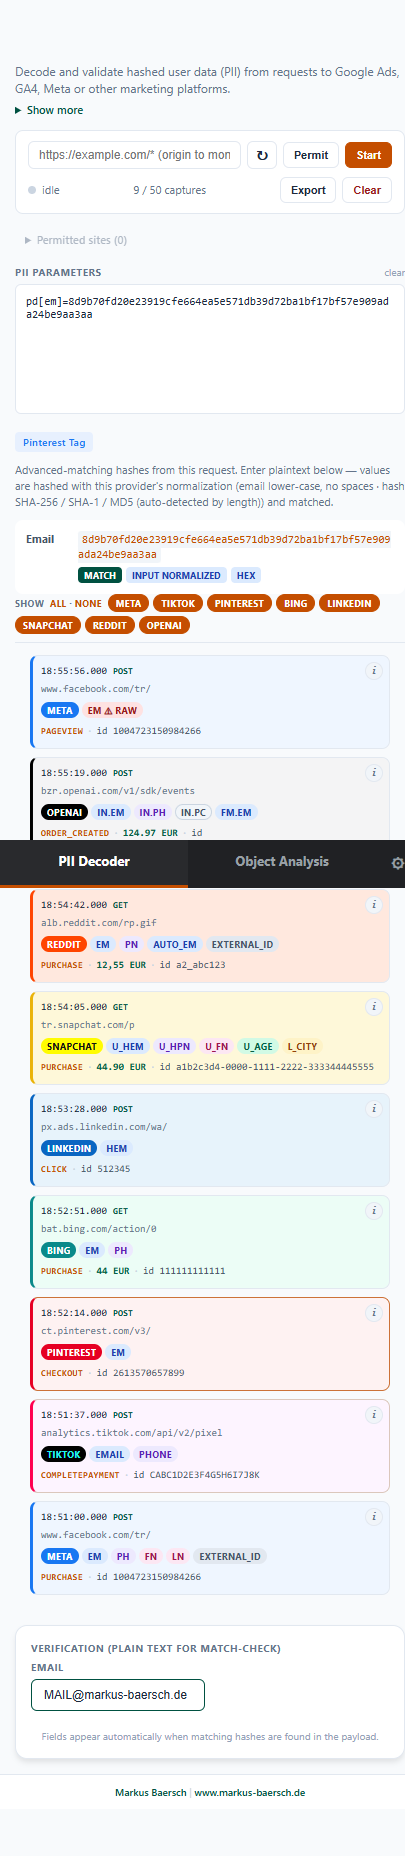
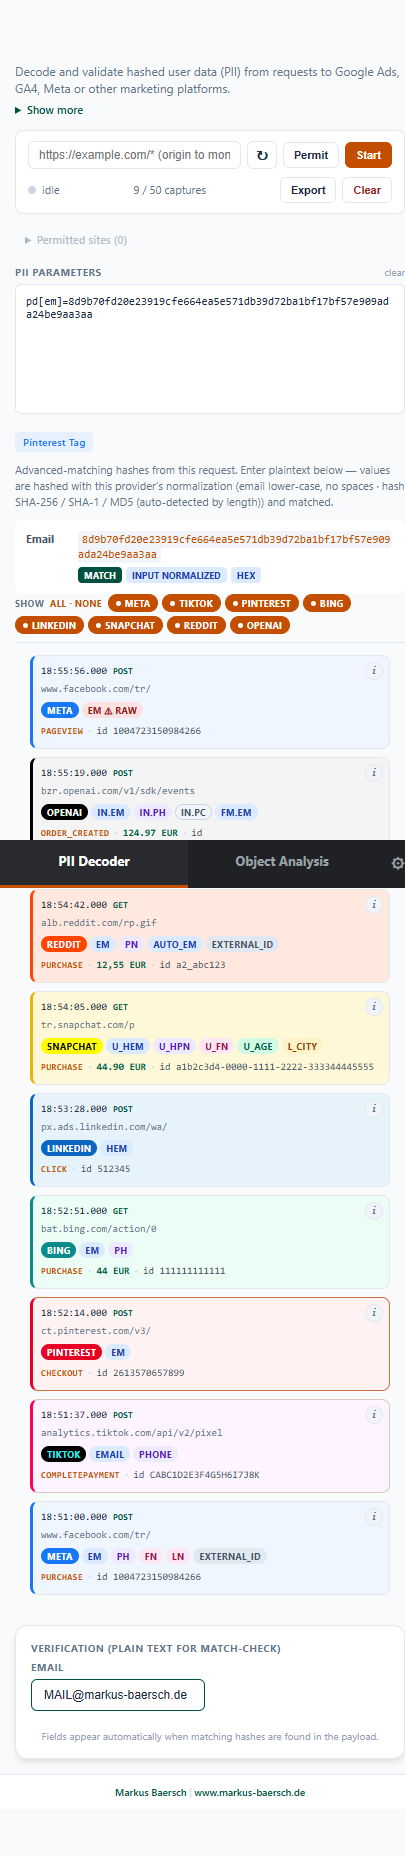
feat(panel): activity dot on the service filter chips
Ported from the sibling tracking-auditor extension. A chip whose service
produced captures carries a dot, deliberately independent of the show
filter: a chip switched OFF hides its cards, which is exactly the case
where nothing else tells you the service is still firing.

Two deviations from the original, both about this panel's workflow:
- The pulse is bound to a `rec-live` class on the bar rather than to each
  chip, because the filter bar is not re-rendered on recording start/stop.
- It pulses only while recording; stopped, the dot stays as a static
  marker instead of animating through the whole analysis phase.

prefers-reduced-motion drops the animation and keeps the dot.

Changed region(s): [[0.1778, 0.3125, 0.9481, 0.3438], [0.0593, 0.3125, 0.1481, 0.3438]]

diff --git a/tests/validator.spec.js b/tests/validator.spec.js
@@ -2,6 +2,7 @@ const { test, expect, chromium } = require('@playwright/test');
 const path = require('path');
 const fs = require('fs');
 const fixtures = require('./fixtures.js');
+const detectorFixtures = require('./detector-fixtures.js');
 
 const EXTENSION_PATH = path.resolve(__dirname, '..');
 const USER_DATA_DIR = path.resolve(__dirname, '..', 'tmp-user-data-test');
@@ -278,5 +279,101 @@ test('18. OpenAI: cleartext geo is marked as by-design, never as a leak', async 
   const row = page.locator('#emResult .res-table tr').filter({ hasText: 'Postal code (init)' });
   await expect(row).toContainText('CLEARTEXT BY DESIGN');
   await expect(row.locator('.no-match')).toHaveCount(0);
+  await page.close();
+});
+
+// --- Activity dot on the filter chips -----------------------------------
+// A chip that is switched OFF hides its cards — which is exactly when you can
+// no longer tell that the service is firing. The dot is the answer, so it must
+// survive the toggle.
+
+// Seed captures straight into the service worker's state, the same way the
+// screenshot harness does. Detector flags are NOT set here: the panel's first
+// load reconciles them against the real (absent) permissions and would write
+// them straight back to false — they have to be set after the stub is in place.
+async function seedCaptures(recording) {
+  let sw = context.serviceWorkers()[0];
+  if (!sw) sw = await context.waitForEvent('serviceworker');
+  await sw.evaluate(({ caps, rec }) => {
+    state.captures = caps;
+    state.recording = rec;
+    chrome.storage.local.set({ captureState: state });
+  }, { caps: detectorFixtures.CAPTURES, rec: recording });
+}
+
+// Open the panel with the host permissions faked as granted, then enable the
+// detectors and reload — the same order test 14 uses, and the only one that
+// survives the reconciliation described above.
+async function openPopupWithDetectors() {
+  const { page } = await openPopup();
+  await page.addInitScript(() => {
+    if (window.chrome && window.chrome.permissions) {
+      window.chrome.permissions.contains = () => Promise.resolve(true);
+    }
+  });
+  await page.evaluate(() => new Promise((r) => chrome.storage.local.set({
+    enabledDetectors: { meta: true, openai: true }, hiddenSources: [],
+  }, r)));
+  await page.reload();
+  await page.waitForSelector('.tabs .tab.active');
+  return page;
+}
+
+function chipInfo(page, src) {
+  return page.evaluate((s) => {
+    const bar = document.getElementById('capFilterBar');
+    const c = bar.querySelector(`.cap-filter-chip[data-src="${s}"]`);
+    if (!c) return null;
+    return {
+      active: c.classList.contains('active'),
+      hasData: c.classList.contains('has-data'),
+      anim: getComputedStyle(c, '::before').animationName,
+      recLive: bar.classList.contains('rec-live'),
+    };
+  }, src);
+}
+
+test('19. Filter chips: the activity dot survives switching the chip off', async () => {
+  await seedCaptures(false);
+  const page = await openPopupWithDetectors();
+  await page.waitForSelector('#capFilterBar .cap-filter-chip');
+  // Start via the button: the reload above disconnects the panel port, and the
+  // auto-stop option would have turned a pre-seeded recording back off.
+  await page.click('#recToggle');
+  await page.waitForTimeout(350);
+
+  expect(await chipInfo(page, 'meta')).toMatchObject({ hasData: true, recLive: true });
+  // A chip only gets a dot when captures of that service exist — 'ga' is in the
+  // order list but produces none here.
+  expect(await chipInfo(page, 'ga')).toBeNull();
+
+  await page.click('.cap-filter-chip[data-src="meta"]');
+  await page.waitForTimeout(250);
+  const off = await chipInfo(page, 'meta');
+  expect(off.active).toBe(false);
+  expect(off.hasData).toBe(true);          // the point of the feature
+  expect(off.anim).toMatch(/flt-live-pulse/);
+
+  // Restore the show state so the next test starts from a visible chip.
+  await page.evaluate(() => new Promise((r) => chrome.storage.local.set({ hiddenSources: [] }, r)));
+  await page.close();
+});
+
+test('20. Filter chips: the dot stops pulsing once recording stops', async () => {
+  await seedCaptures(false);
+  const page = await openPopupWithDetectors();
+  await page.waitForSelector('#capFilterBar .cap-filter-chip');
+
+  const idle = await chipInfo(page, 'meta');
+  expect(idle.hasData).toBe(true);
+  expect(idle.recLive).toBe(false);
+  expect(idle.anim).toBe('none');          // static marker, not an animation
+
+  await page.click('#recToggle');          // Start
+  await page.waitForTimeout(350);
+  expect((await chipInfo(page, 'meta')).recLive).toBe(true);
+  await page.click('#recToggle');          // Stop
+  await page.waitForTimeout(350);
+  expect((await chipInfo(page, 'meta')).recLive).toBe(false);
   await page.close();
 });

diff --git a/popup.html b/popup.html
@@ -241,6 +241,32 @@
     .cap-filter-chip { font-size: 9px; font-weight: 700; text-transform: uppercase; letter-spacing: 0.3px; padding: 2px 7px; border-radius: 10px; border: 1px solid var(--border); background: var(--surface-alt); color: var(--text-muted); cursor: pointer; user-select: none; }
     .cap-filter-chip.active { background: var(--primary); color: #fff; border-color: var(--primary); }
     .cap-filter-chip:hover { border-color: var(--primary); }
+    /* "has-data": this service has captures in the ring. Deliberately independent
+       of .active — a service whose chip is toggled OFF is exactly the case where
+       you cannot see its cards, so the dot is the only hint that it fired at all.
+       A pseudo-element, so the chip needs no extra markup. The pulse runs only
+       while recording (.rec-live on the bar); once stopped the dot stays as a
+       static marker instead of animating through the whole analysis. */
+    .cap-filter-chip.has-data::before {
+      content: ''; display: inline-block; width: 0.55em; height: 0.55em; border-radius: 50%;
+      margin-right: 0.45em; vertical-align: 0.05em; background: #10b981;
+    }
+    .cap-filter-chip.active.has-data::before { background: #fff; }
+    .cap-filter-bar.rec-live .cap-filter-chip.has-data::before { animation: flt-live-pulse 1.5s infinite; }
+    .cap-filter-bar.rec-live .cap-filter-chip.active.has-data::before { animation-name: flt-live-pulse-on; }
+    @keyframes flt-live-pulse {
+      0%   { box-shadow: 0 0 0 0 rgba(16,185,129,0.6); }
+      70%  { box-shadow: 0 0 0 0.4em rgba(16,185,129,0); }
+      100% { box-shadow: 0 0 0 0 rgba(16,185,129,0); }
+    }
+    @keyframes flt-live-pulse-on {
+      0%   { box-shadow: 0 0 0 0 rgba(255,255,255,0.7); }
+      70%  { box-shadow: 0 0 0 0.4em rgba(255,255,255,0); }
+      100% { box-shadow: 0 0 0 0 rgba(255,255,255,0); }
+    }
+    @media (prefers-reduced-motion: reduce) {
+      .cap-filter-bar.rec-live .cap-filter-chip.has-data::before { animation: none; }
+    }
     .cap-filter-links { font-size: 9px; font-weight: 700; text-transform: uppercase; letter-spacing: 0.3px; color: var(--text-muted); margin-right: 2px; }
     .cap-filter-link { color: var(--primary); cursor: pointer; text-decoration: none; }
     .cap-filter-link:hover { text-decoration: underline; }

diff --git a/popup.js b/popup.js
@@ -1391,9 +1391,14 @@ document.addEventListener('DOMContentLoaded', () => {
         html += '<span class="cap-filter-links"><a class="cap-filter-link" data-flt="all" role="button" tabindex="0">all</a> · <a class="cap-filter-link" data-flt="none" role="button" tabindex="0">none</a></span>';
         html += sources.map(s => {
             const active = !hiddenSources.has(s);
-            return `<span class="cap-filter-chip ${active ? 'active' : ''}" data-src="${escapeHtml(s)}" role="button" tabindex="0" aria-pressed="${active}">${escapeHtml(providerLabel(s))}</span>`;
+            // A dot marks a service that actually produced captures — most useful
+            // on a chip that is switched OFF, where its cards are hidden.
+            const hasData = present.has(s);
+            const title = hasData ? ' title="This service has captures in the list — shown even while its chip is off"' : '';
+            return `<span class="cap-filter-chip ${active ? 'active' : ''}${hasData ? ' has-data' : ''}" data-src="${escapeHtml(s)}" role="button" tabindex="0" aria-pressed="${active}"${title}>${escapeHtml(providerLabel(s))}</span>`;
         }).join('');
         bar.innerHTML = html;
+        bar.classList.toggle('rec-live', recording);
         bar.hidden = false;
         bar.querySelectorAll('.cap-filter-chip').forEach(chip => {
             const toggle = () => {
@@ -1527,6 +1532,10 @@ document.addEventListener('DOMContentLoaded', () => {
     function setRecordingUI(rec) {
         recording = rec;
         recDot.classList.toggle('live', rec);
+        // The filter bar is not re-rendered on start/stop, so the pulse hangs off
+        // a class on the bar rather than off each chip's markup.
+        const fBar = document.getElementById('capFilterBar');
+        if (fBar) fBar.classList.toggle('rec-live', rec);
         recStatusText.textContent = rec ? 'recording' : 'idle';
         recToggle.textContent = rec ? 'Stop' : 'Start';
         recToggle.classList.toggle('primary', !rec);

diff --git a/README.md b/README.md
@@ -69,7 +69,7 @@ Beyond Google Ads / GA4, the extension can flag when personal data leaves the br
 - **Reddit Pixel** — the `rp.gif` beacon on `alb.reddit.com`, with manual (`em`, `pn`) and **auto-collected** (`auto_em` comma list, `auto_pn` `weight~hash` pipe list) advanced matching plus an opaque `external_id`
 - **OpenAI Ad Measurement Pixel** — the batched JSON POST to `bzr.openai.com/v1/sdk/events`, whose user block is nested **by origin**: `in` is what the site handed to `oaiq('init')`, while `fm` / `js` / `ht` were scraped off the page by the SDK itself. The detector keeps them apart, so you can see *who supplied which identifier* — and spot when the two disagree
 
-Each detector is enabled individually in the **Settings** tab. Enabling one triggers a **runtime permission request** for just that service's origins (via `optional_host_permissions`, so the installed manifest never changes); disabling revokes it again. Captured requests appear in the same clickable card list, each leading with a **service-name pill** and **tinted per provider** (Meta cool-blue, TikTok fuchsia, Pinterest red, Bing teal, LinkedIn azure, Snapchat yellow, Reddit orangered, OpenAI black) so the source is obvious at a glance. Google Ads — the focus of the tool — stays a plain card with just a neutral grey rail. Once at least one non-Google detector is enabled, a **per-service filter bar** appears above the card list to show/hide each service (with `all` / `none` shortcuts).
+Each detector is enabled individually in the **Settings** tab. Enabling one triggers a **runtime permission request** for just that service's origins (via `optional_host_permissions`, so the installed manifest never changes); disabling revokes it again. Captured requests appear in the same clickable card list, each leading with a **service-name pill** and **tinted per provider** (Meta cool-blue, TikTok fuchsia, Pinterest red, Bing teal, LinkedIn azure, Snapchat yellow, Reddit orangered, OpenAI black) so the source is obvious at a glance. Google Ads — the focus of the tool — stays a plain card with just a neutral grey rail. Once at least one non-Google detector is enabled, a **per-service filter bar** appears above the card list to show/hide each service (with `all` / `none` shortcuts). A chip whose service actually produced captures carries an **activity dot** — deliberately also when the chip is switched *off*, because that is exactly when its cards are hidden and you would otherwise not notice the service firing at all. The dot pulses while recording and stays as a static marker once you stop.
 
 - **Leak flagging**: a known identifier field arriving **unhashed** (plaintext) is called out as a leak. Hashed fields show a neutral identifier pill.
 - **Hash validation with normalization diagnostics**: click a card to load its hash slots into the shared PII Parameters field, then enter the known plaintext. The match is **case-sensitive** and reports three states — a clean **MATCH** (green), **MATCH + INPUT NORMALIZED** (your input was looser than the canonical form, e.g. `UPPERCASE` or a `0049…` phone — the tool normalized it for you), and **MATCH + RAW · NOT NORMALIZED** (orange): the hash reproduces from your *raw* input, which means the tag hashed an un-normalized value that will **not** match on the platform side — a real implementation defect the green states would otherwise hide.
@@ -173,6 +173,7 @@ lightTest()          // 30s diagnostic listener that logs every match
 - **Cleartext by design, marked as such.** OpenAI's geo fields (`co`, `ct`, `rg`, `pc`) are specified to travel unhashed. They get a neutral pill plus a `CLEARTEXT BY DESIGN` note rather than a leak warning — the field is now a property of the validation profile (`cleartextSlots`), available to any future provider.
 - **The pixel's own diagnostic is surfaced.** Consent state (`consent denied` is conclusive — `consent not denied` is all the wire supports, since the SDK defaults to granted and "never asked" looks identical to "consented"), the **account's** automatic-advanced-matching setting, and the count and reasons of calls the SDK **dropped** as invalid — the last being genuinely invisible otherwise, because a rejected call sends nothing at all.
 - **Conversion value in minor units.** OpenAI's `amount` is an integer in the currency's smallest unit, so the exponent comes from the currency: dividing by 100 unconditionally would invent a 100× error on JPY/KRW/CLP/ISK/VND and a 10× one on BHD/KWD/OMR. Without a currency the raw value is shown as-is rather than guessed at.
+- **Activity dot on the filter chips** (ported from the sibling tracking-auditor extension). A chip whose service produced captures shows a dot — independent of the show filter, since a chip that is switched *off* hides its cards and is precisely the case where you cannot otherwise tell that the service is firing. It pulses while recording and drops to a static marker when you stop, so a stopped session does not animate through the whole analysis; `prefers-reduced-motion` turns the animation off entirely.
 - Normalization rules and the full field reference are in [`docs/platform-user-data-rules.md`](docs/platform-user-data-rules.md); they were verified against the reference fixtures (known plaintext → SHA-256) rather than assumed.
 
 ### v2.8.0
